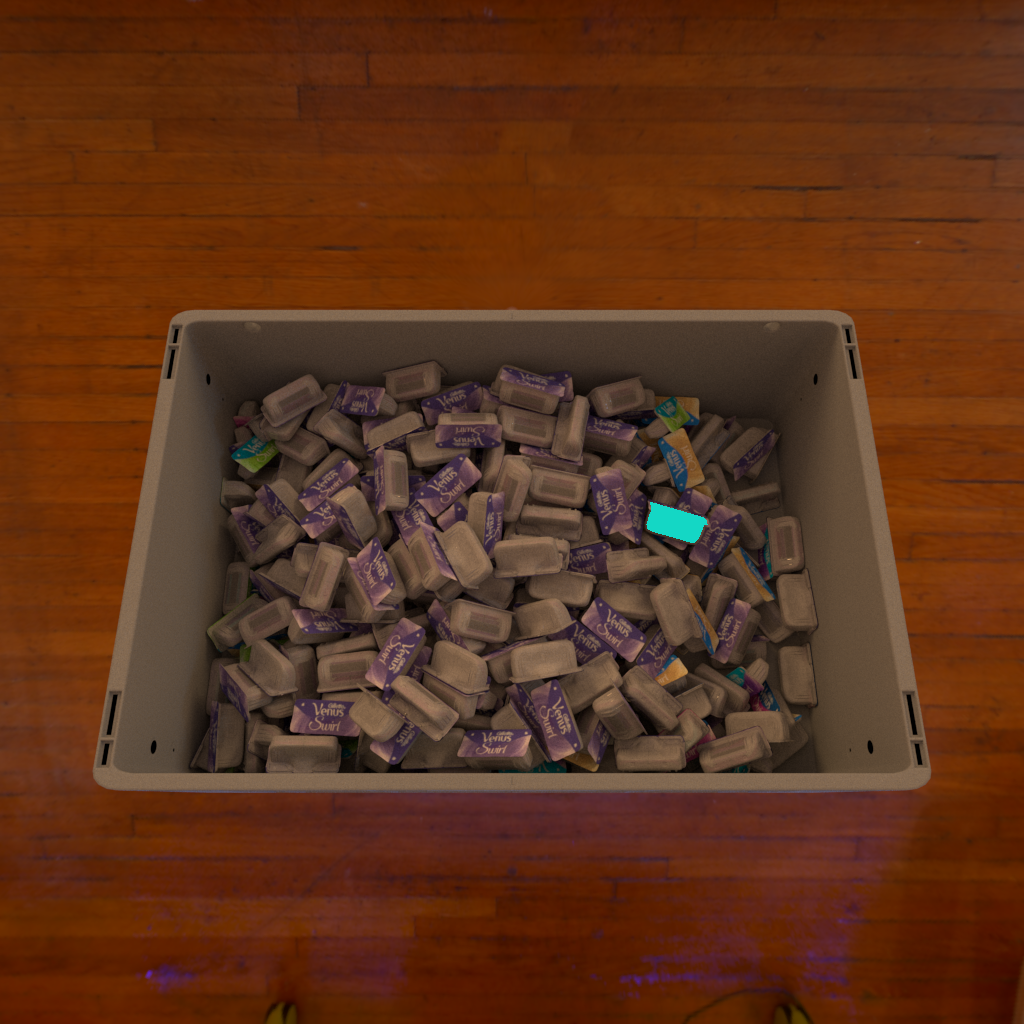
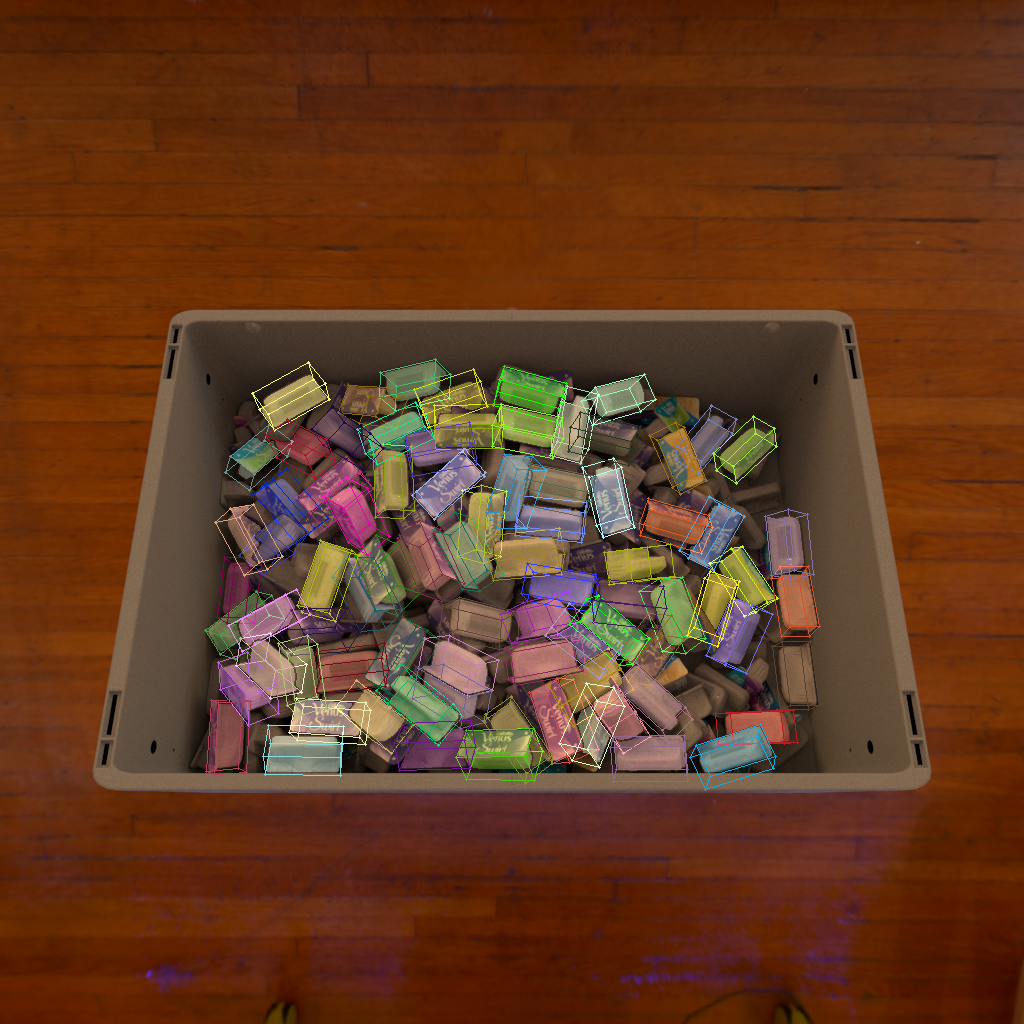
added outputs samples to data, added multiprocessing

Changed region(s): [[0.1875, 0.3438, 0.8125, 0.7812]]

diff --git a/containers_3d_bbox_to_pixels.py b/containers_3d_bbox_to_pixels.py
@@ -1,6 +1,9 @@
+import concurrent.futures
+import itertools
 import logging
 import math
 import random
+from dataclasses import dataclass
 from pathlib import Path
 from typing import List, Dict
 
@@ -11,9 +14,19 @@ import jsonlines
 import numpy as np
 from omegaconf import OmegaConf, DictConfig
 from scipy.spatial.transform import Rotation as R
+from tqdm import tqdm
 
 
 log = logging.getLogger(__name__)
+
+
+@dataclass
+class BboxInfo:
+    obj_id: int  # The id of the object
+    obj_mask: np.ndarray  # Mask of the object
+    bbox_px: np.ndarray  # 3D bbox of object in pixel space. Shape: [8, 2], dtype=int
+    bbox_cam: np.ndarray  # 3D bbox of object in camera coords (Y-up, X-right). Shape: [8, 2], dtype=float32
+    bbox_world: np.ndarray  # 3D bbox of object in world coords (Y-up, X-right). Shape: [8, 2], dtype=float32
 
 # Data about the camera. Some of it is hardcoded and not available in metadata file
 CAM_DATA = {
@@ -202,25 +215,22 @@ def get_sku_bbox_corners(sku_id: int):
     return sku_bbox[sku_id]
 
 
-def calculate_3d_bboxes_in_image(f_rgb: Path, f_info: Path, f_segments: Path, cam_intr: np.ndarray, sku_ids: Dict,
-                                 threshold_visible_object: int, output_viz_ext: str = '.bbox.png'):
-    """Calc the 3D bboxes of all objs in an img
+def calculate_3d_bboxes_in_image(f_info: Path, f_segments: Path, cam_intr: np.ndarray, sku_ids: Dict,
+                                 threshold_visible_object: int) -> List[BboxInfo]:
+    """Calc the 3D bboxes of all visible objs in an img.
+    Object is determined to be visible based on the number of pixels in its mask.
 
     Args:
-        f_rgb: Filename of rgb image
         f_info: Filename of info.json. It contains the position and orientation of all the objects in scene.
         f_segments: Filename of the segments image (contains mask of each object).
         cam_intr: Camera Intrinsics Matrix
         sku_ids: Mapping between render ids and sku id. All objects in each render are the same SKU.
         threshold_visible_object: Min number of pixels in an object's mask for it to be considered visible
-        output_viz_ext: Extension of the output filename. If none, no file will be saved. Example: '.bbox.png'
-    """
-    render_id_rgb = get_renderid(f_rgb)
-    render_id_info = get_renderid(f_info)
-    if render_id_rgb != render_id_info:
-        raise ValueError(f"The RGB file ({f_rgb.name}) and Info file ({f_info.name}) do not match."
-                         f" They are of different render IDs.")
 
+    Returns:
+        list[BboxInfo]: List of all "visible" objects' bounding box information and mask.
+    """
+    render_id_info = get_renderid(f_info)
     with f_info.open() as fd:
         info = json.load(fd)
 
@@ -237,7 +247,7 @@ def calculate_3d_bboxes_in_image(f_rgb: Path, f_info: Path, f_segments: Path, ca
     list_objs = info["objects"]
 
     # Get the SKU ID and it's default 3D bbox
-    sku_id = sku_ids[render_id_rgb]
+    sku_id = sku_ids[render_id_info]
     sku_bbox = get_sku_bbox_corners(sku_id)  # Shape: (8, 3) -> 8 corners of bbox
     log.debug(f'sku_bbox default (no rot or translation): \n{sku_bbox}')
 
@@ -268,9 +278,9 @@ def calculate_3d_bboxes_in_image(f_rgb: Path, f_info: Path, f_segments: Path, ca
             "bbox_max": obj_info["bbox_max"],
         }
 
-    # Project each 3D bbox to the RGB image
-    rgb = cv2.imread(str(f_rgb), cv2.IMREAD_COLOR)
+    # Get all 3D bboxes in pixel and camera coordinates
     segments = cv2.imread(str(f_segments), cv2.IMREAD_UNCHANGED | cv2.IMREAD_ANYDEPTH)
+    visible_bboxes = []  # List of dicts of visible bboxes
     for obj_id, bbox_3d in obj_bboxes.items():
         # Skip if object is not visible
         obj_mask = (segments == obj_id).astype(np.uint8)  # Get mask of obj
@@ -307,26 +317,61 @@ def calculate_3d_bboxes_in_image(f_rgb: Path, f_info: Path, f_segments: Path, ca
         bbox_px = bbox_px.round().astype(np.int)
         log.debug(f'Obj-{obj_id} Bbox pixel coords:\n{bbox_px}')
 
+        bbox_info = BboxInfo(obj_id=obj_id, obj_mask=obj_mask, bbox_px=bbox_px, bbox_cam=bbox3d_cam_coords,
+                             bbox_world=bbox_3d)
+        visible_bboxes.append(bbox_info)
+
+    return visible_bboxes
+
+
+def _process_file(f_rgb: Path, f_info: Path, f_segments: Path, cam_intr: np.ndarray, sku_ids: Dict,
+                  threshold_visible_object: int, output_viz_ext: str = '.bbox.png'):
+    """Calc the 3D bboxes of all visible objs in an img and overlay the bboxes on the rgb image
+
+        Args:
+            f_rgb: Filename of rgb image
+            f_info: Filename of info.json. It contains the position and orientation of all the objects in scene.
+            f_segments: Filename of the segments image (contains mask of each object).
+            cam_intr: Camera Intrinsics Matrix
+            sku_ids: Mapping between render ids and sku id. All objects in each render are the same SKU.
+            threshold_visible_object: Min number of pixels in an object's mask for it to be considered visible
+            output_viz_ext: Extension of the output filename. If none, no file will be saved. Example: '.bbox.png'
+    """
+    render_id_rgb = get_renderid(f_rgb)
+    render_id_info = get_renderid(f_info)
+    if render_id_rgb != render_id_info:
+        raise ValueError(f"The RGB file ({f_rgb.name}) and Info file ({f_info.name}) do not match."
+                         f" They are of different render IDs.")
+
+    # Get bboxes of all the visible objects in the image
+    bbox_infos = calculate_3d_bboxes_in_image(f_info, f_segments, cam_intr, sku_ids,
+                                              threshold_visible_object)
+
+    # Visualize the bboxes on RGB image
+    rgb = cv2.imread(str(f_rgb), cv2.IMREAD_COLOR)
+    for bbox_info in bbox_infos:
         # Generate random color
         rand_col = [random.randint(0, 255), random.randint(0, 255), random.randint(0, 255)]
 
         # Visualize the mask of the object
         rand_col_muted = np.array([col / 3 for col in rand_col], dtype=np.uint16)
         rgb = rgb.astype(np.uint16)  # Cast to 16bit to prevent overflow
-        rgb[obj_mask] += rand_col_muted
+        rgb[bbox_info.obj_mask] += rand_col_muted
         rgb = rgb.clip(min=0, max=255).astype(np.uint8)
 
         # Visualize the 3D bbox
-        draw_3d_bbox(rgb, bbox_px, rand_col)
+        draw_3d_bbox(rgb, bbox_info.bbox_px, rand_col)
 
     # Save output image
     fname = f_rgb.parent / (render_id_rgb + output_viz_ext)
     cv2.imwrite(str(fname), rgb)
-    log.info(f'Saved output image {fname}')
+    # log.info(f'Saved output image {fname}')
 
 
 @hydra.main(config_path='.', config_name='config')
 def main(cfg: DictConfig):
+    log.info(f"Input Config: \n{OmegaConf.to_yaml(cfg)}")
+
     # Parse config
     dir_data = Path(cfg.dir_data)
     if not dir_data.is_dir():
@@ -338,6 +383,10 @@ def main(cfg: DictConfig):
     ext_segments = cfg.ext_segments
     fname_metadata = cfg.fname_metadata
     seed = int(cfg.seed)
+    if int(cfg.workers) > 0:
+        max_workers = int(cfg.workers)
+    else:
+        max_workers = None
 
     random.seed(seed)
 
@@ -368,8 +417,13 @@ def main(cfg: DictConfig):
                                            CAM_DATA["field_of_view"]["y_axis_rads"])
     log.debug(f'cam_intr:\n{cam_intr}')
 
-    calculate_3d_bboxes_in_image(files_rgb[0], files_info[0], files_segments[0], cam_intr, sku_ids,
-                                 threshold_visible_object, ext_viz_bbox)
+    with concurrent.futures.ProcessPoolExecutor(max_workers=max_workers) as executor:
+        with tqdm(total=num_rgb) as pbar:
+            for _ in executor.map(_process_file, files_rgb, files_info, files_segments, itertools.repeat(cam_intr),
+                                  itertools.repeat(sku_ids), itertools.repeat(threshold_visible_object),
+                                  itertools.repeat(ext_viz_bbox)):
+                # Catch any error raised in processes
+                pbar.update()
 
 
 if __name__ == '__main__':

diff --git a/README.md b/README.md
@@ -1,6 +1,8 @@
 # containers-v1-3d-bbox-to-pixels
 Containers v1 - Get the 3D bboxes of items in renders and project them to pixel space
 
+![](sample_data/5.bbox.png)
+
 There are 3 unique SKUs. Each render contains objects of the same SKU, with different 
 color schemes. The bounding box of each SKU at zero rotation/translation is hard-coded.
 Based on the pose of each object in the info file, we calculate the axis-aligned 
@@ -13,7 +15,6 @@ However, some information is missing. This data is hard-coded within the script:
 
 10 Sample images are included in the repo.
 
-![](sample_data/0.rgb.png)
 
 ## Usage
 
